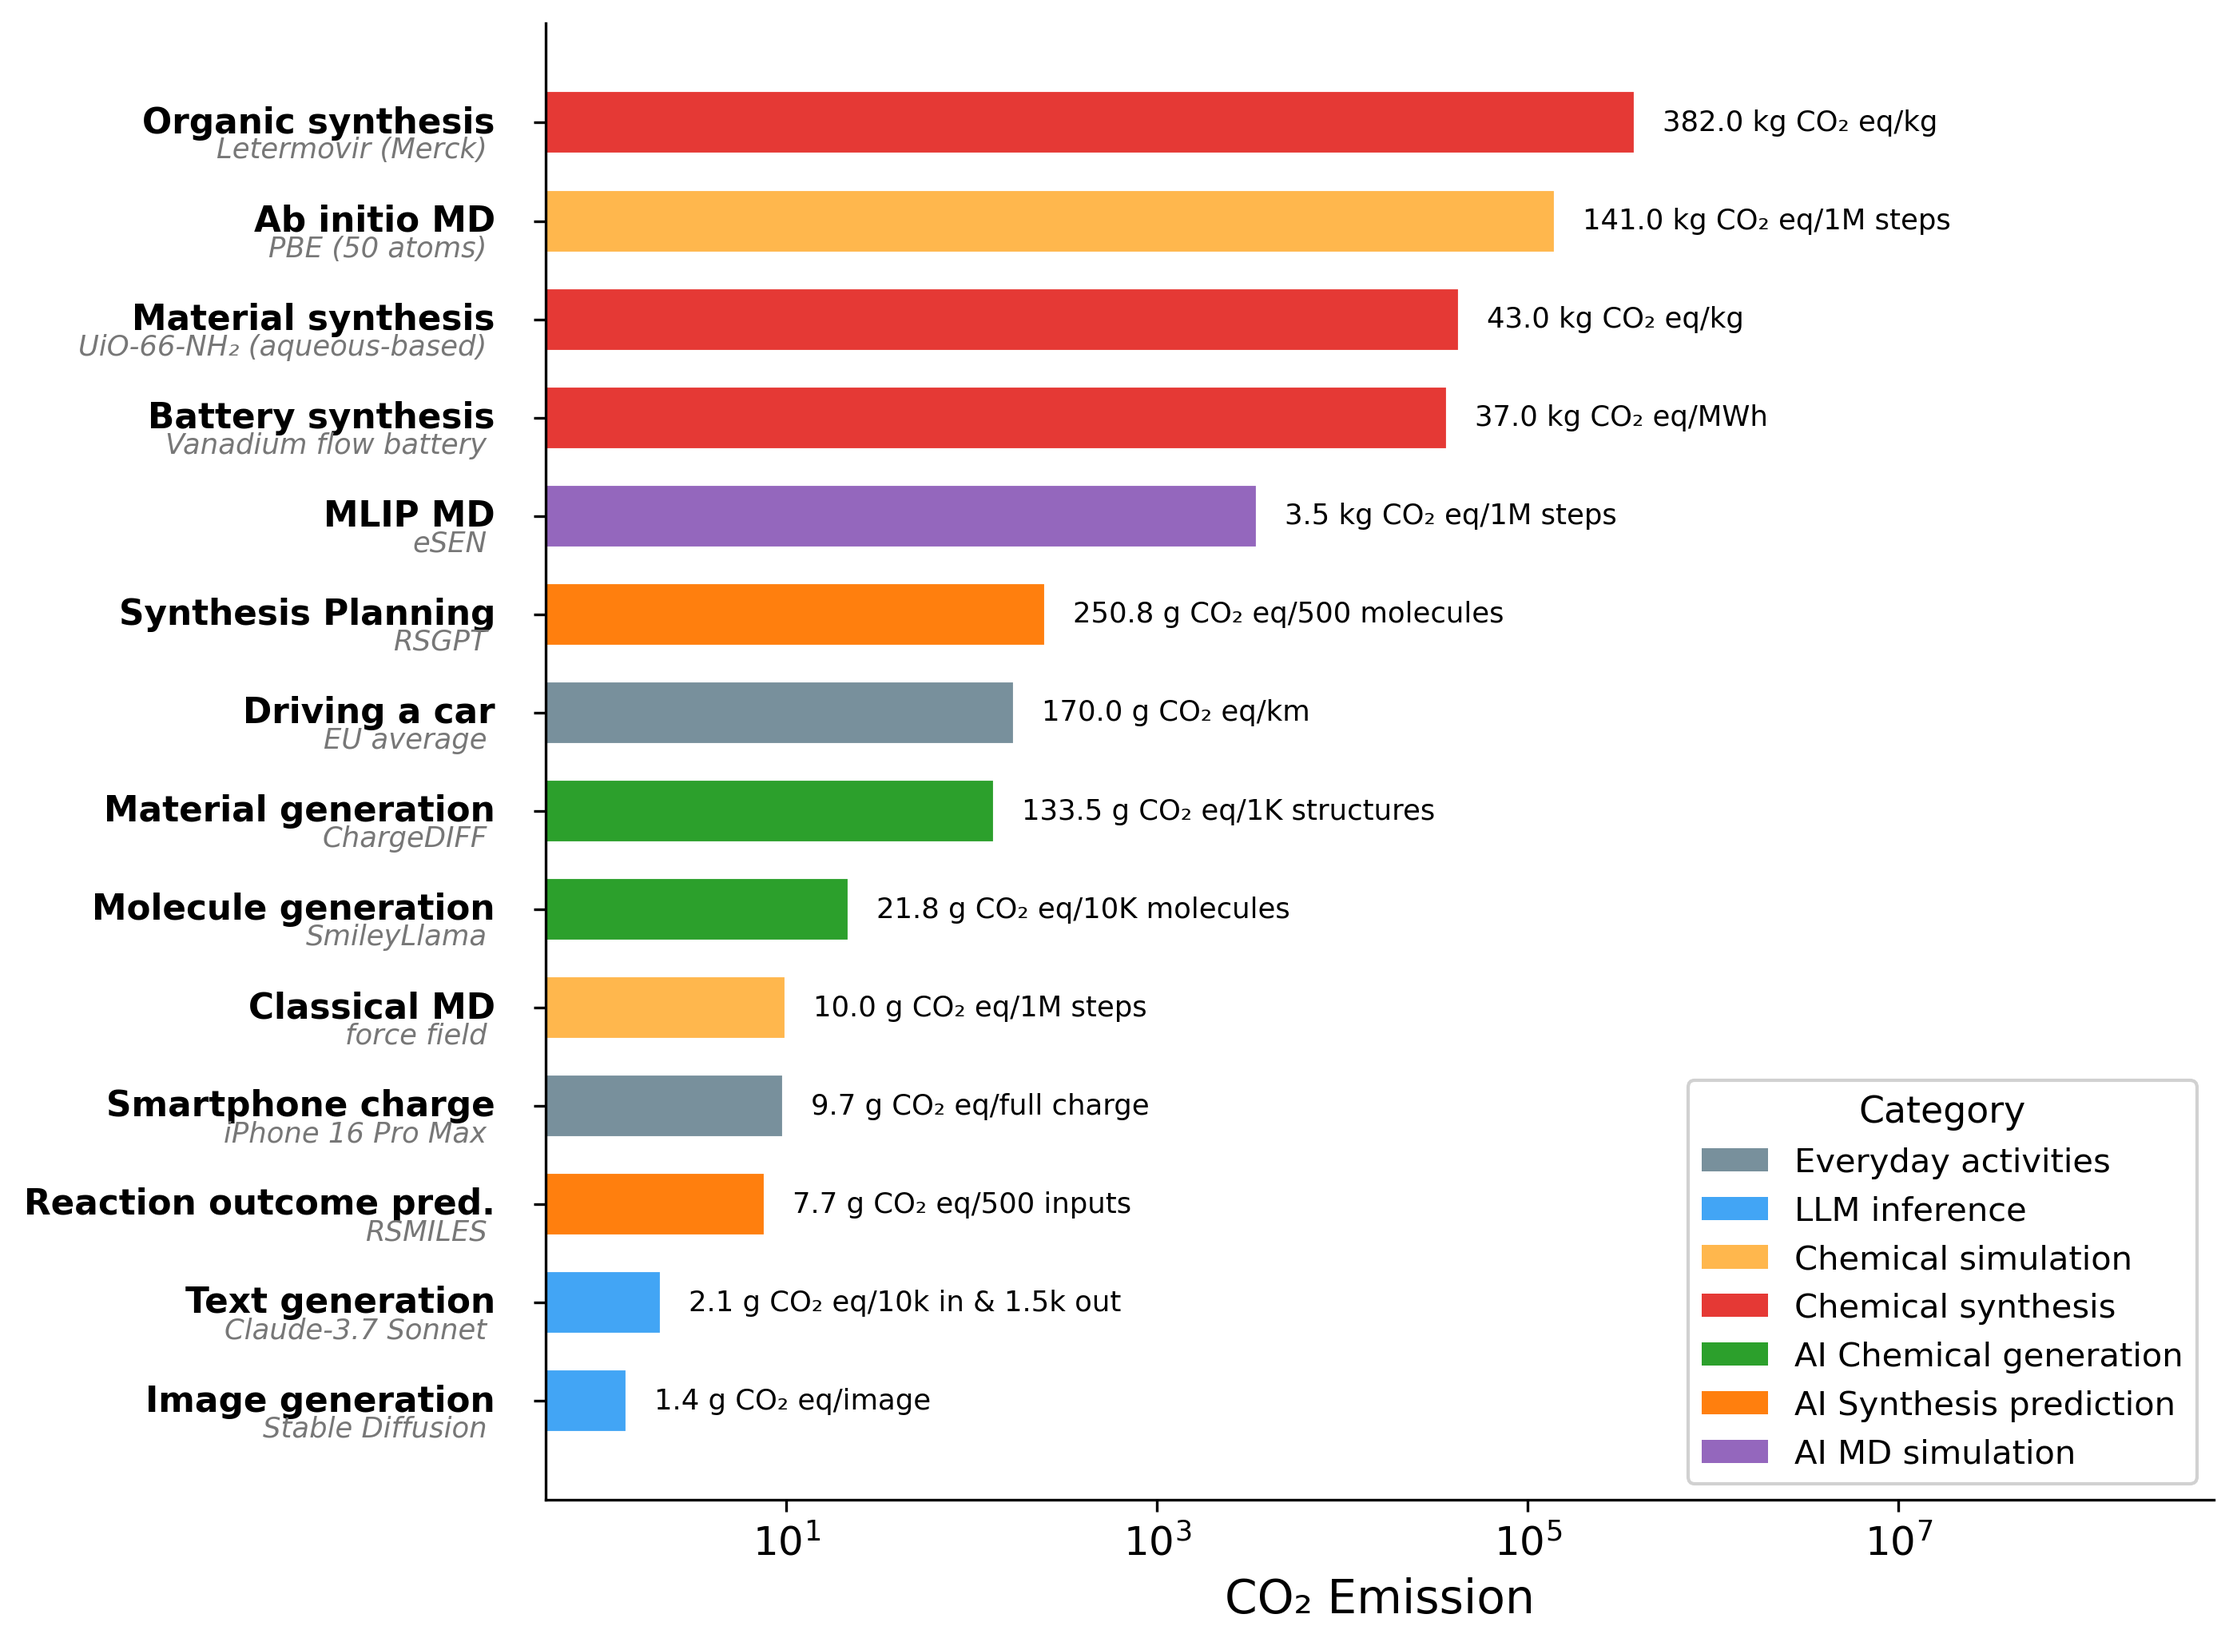
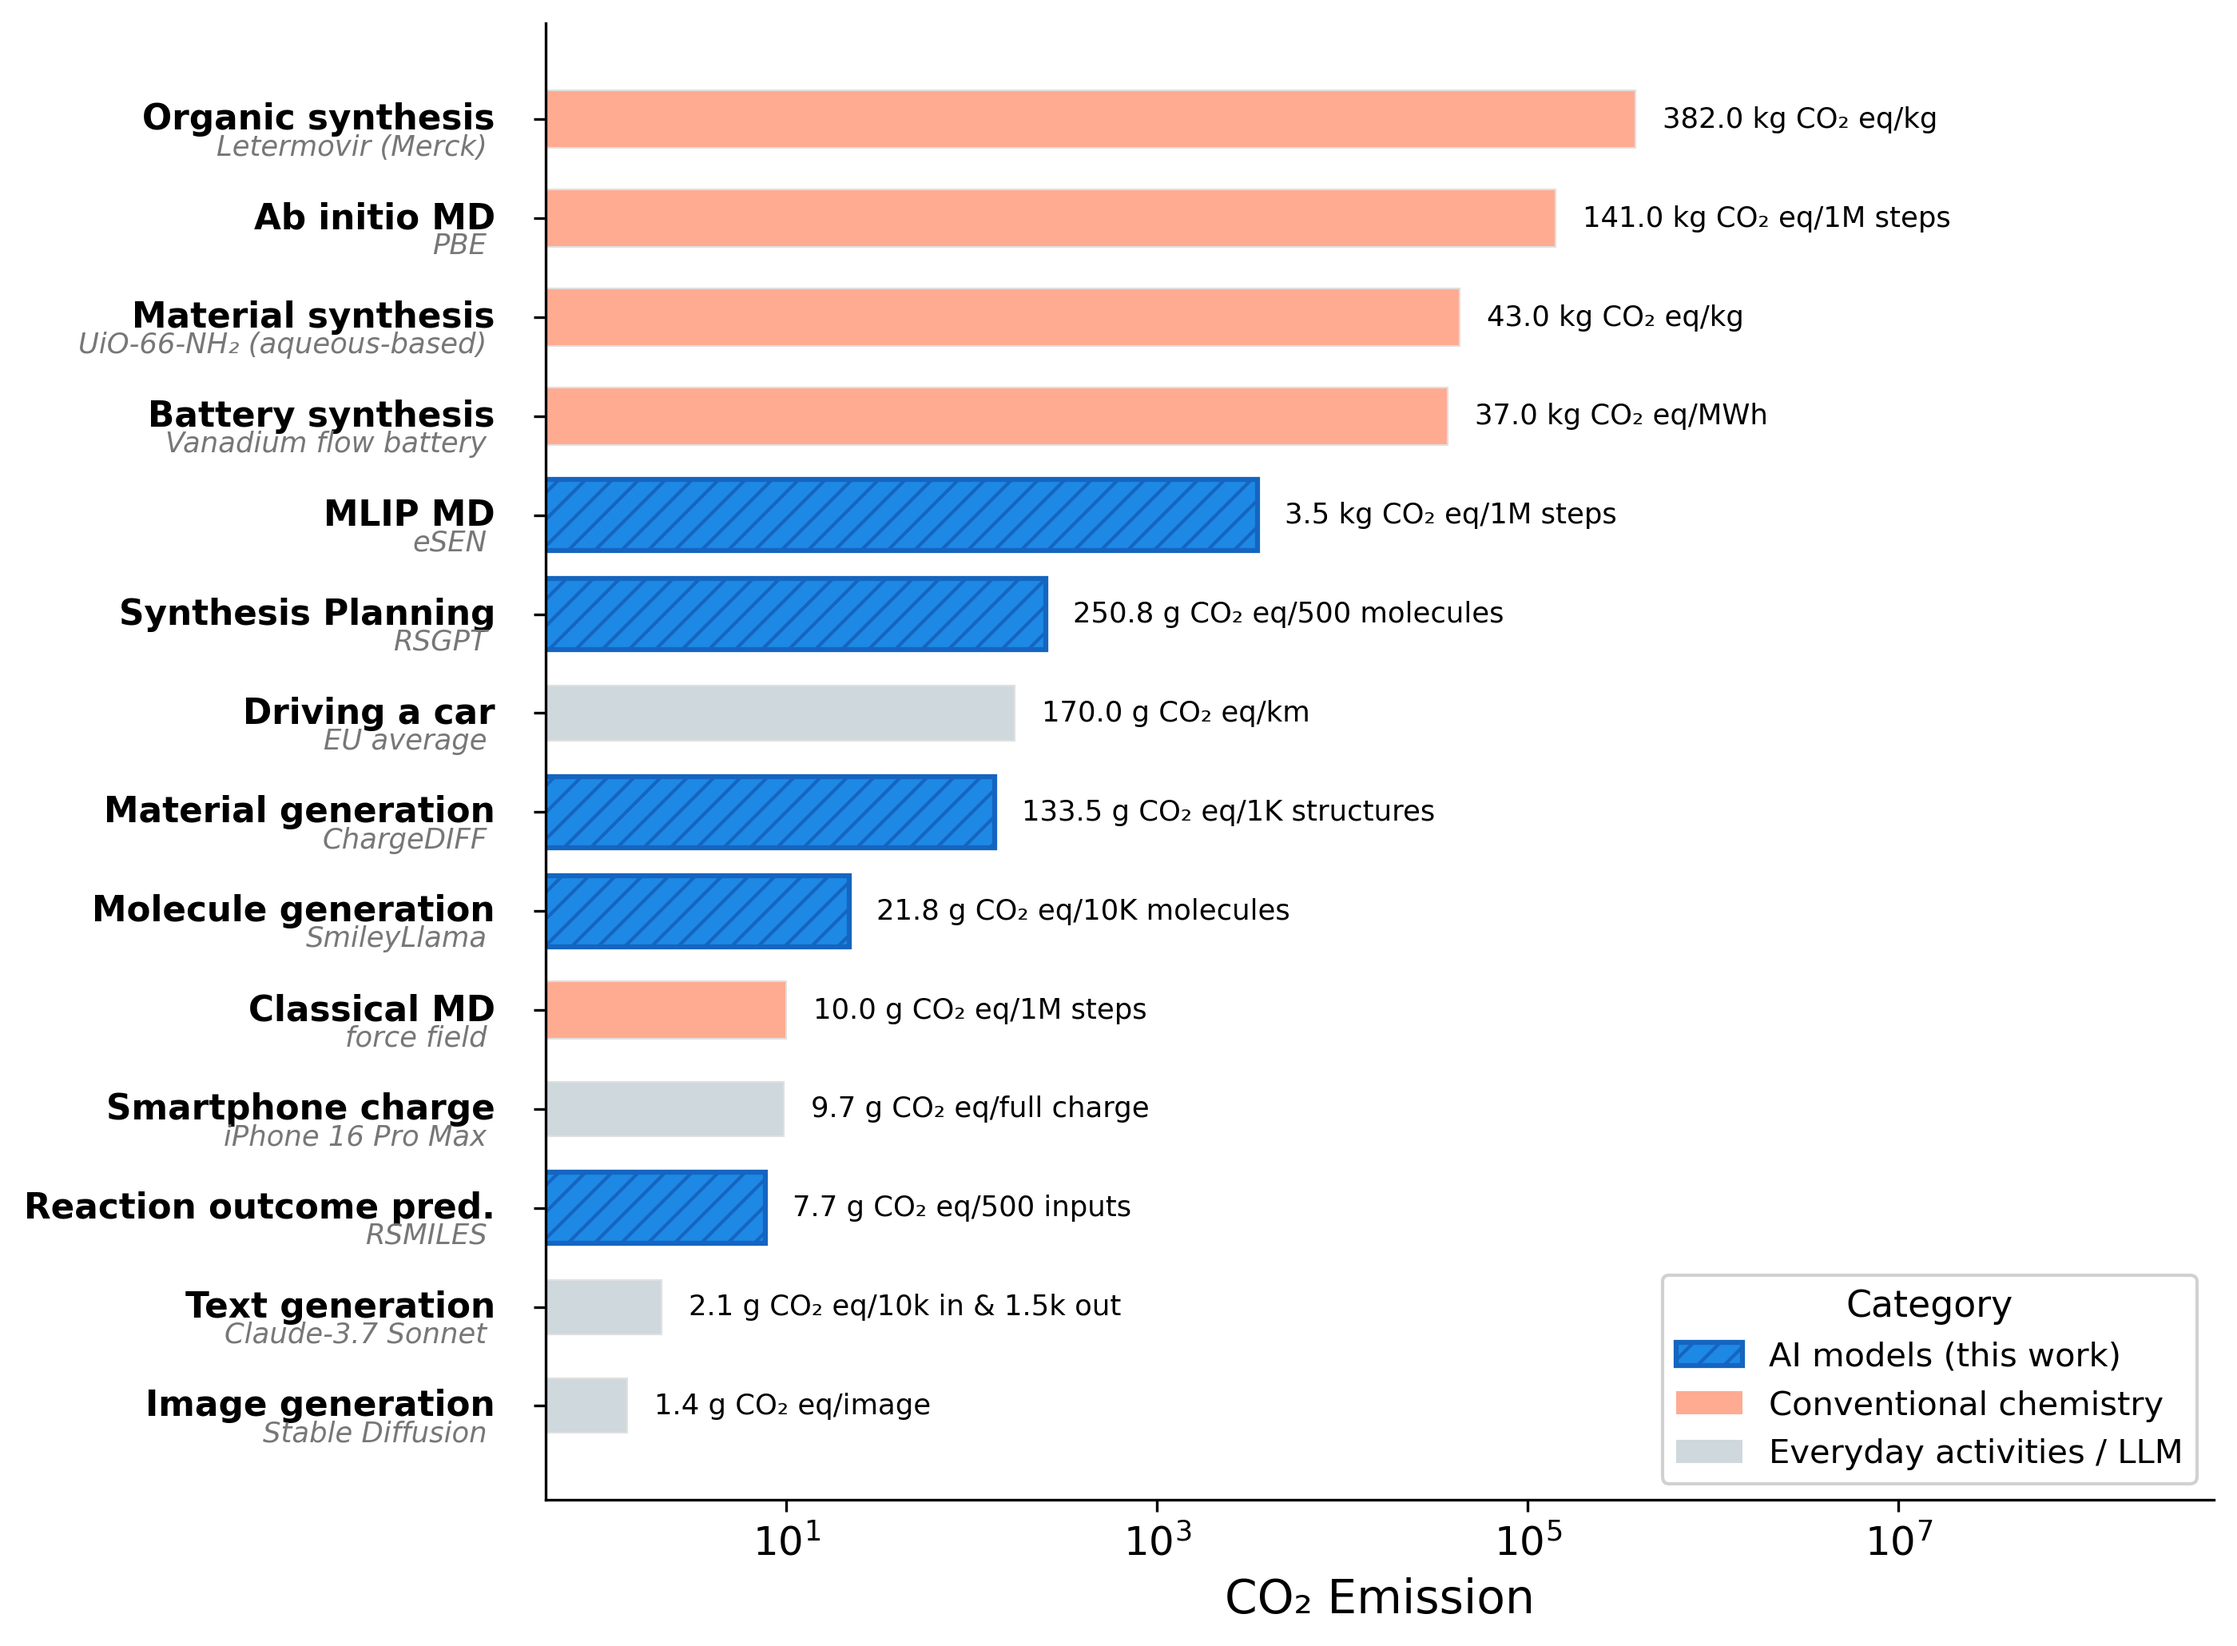
Redesign Figure 4 with 3-tone palette and AI hatching
Add --highlight-ai flag for a cleaner 2-tone+ design: bold blue with
diagonal hatching for AI models, muted coral for conventional chemistry,
light gray for everyday/LLM baselines. Apply matching style to website.
Also simplify Ab initio MD description from 'PBE (50 atoms)' to 'PBE'.

diff --git a/docs/index.html b/docs/index.html
@@ -951,19 +951,20 @@ const REF_DATA = [
   { category: 'AI MD simulation',        label: 'MLIP MD',                  desc: 'LGPS · 1M steps',               value: 3486,    unit: '1M steps',           taskKey: 'StructOpt' },
   { category: 'Chemical synthesis',      label: 'Battery synthesis',        desc: 'Vanadium flow battery',         value: 37000,   unit: 'MWh',                taskKey: null },
   { category: 'Chemical synthesis',      label: 'Material synthesis',       desc: 'UiO-66-NH₂ (aqueous-based)',    value: 43000,   unit: 'kg',                 taskKey: null },
-  { category: 'Chemical simulation',     label: 'Ab initio MD',             desc: 'PBE (50 atoms)',                value: 140960,  unit: '1M steps',           taskKey: null },
+  { category: 'Chemical simulation',     label: 'Ab initio MD',             desc: 'PBE',                value: 140960,  unit: '1M steps',           taskKey: null },
   { category: 'Chemical synthesis',      label: 'Organic synthesis',        desc: 'Letermovir (Merck)',             value: 382000,  unit: 'kg',                 taskKey: null },
 ].sort((a, b) => a.value - b.value);
 
 const REF_CAT_COLORS = {
-  'LLM inference':           '#9467bd',
-  'AI Synthesis prediction': '#17becf',
-  'AI Chemical generation':  '#2ca02c',
-  'AI MD simulation':        '#d62728',
-  'Everyday activities':     '#ff7f0e',
-  'Chemical simulation':     '#8c564b',
-  'Chemical synthesis':      '#e377c2',
+  'LLM inference':           '#CFD8DC',
+  'AI Synthesis prediction': '#1E88E5',
+  'AI Chemical generation':  '#1E88E5',
+  'AI MD simulation':        '#1E88E5',
+  'Everyday activities':     '#CFD8DC',
+  'Chemical simulation':     '#FFAB91',
+  'Chemical synthesis':      '#FFAB91',
 };
+const AI_CATEGORIES = new Set(['AI Synthesis prediction', 'AI Chemical generation', 'AI MD simulation']);
 
 /* ──────────────────────────────────────────────────────
    RENDER CHART — switches based on active tab
@@ -1031,7 +1032,18 @@ function renderRefChart() {
     orientation: 'h',
     x: sorted.map(d => d._barVal),
     y: sorted.map(d => d.label),
-    marker: { color: sorted.map(d => REF_CAT_COLORS[d.category] || '#64748b') },
+    marker: {
+      color: sorted.map(d => REF_CAT_COLORS[d.category] || '#64748b'),
+      line:  {
+        color: sorted.map(d => AI_CATEGORIES.has(d.category) ? '#1565C0' : '#E0E0E0'),
+        width: sorted.map(d => AI_CATEGORIES.has(d.category) ? 1.5 : 0.5),
+      },
+      pattern: {
+        shape:   sorted.map(d => AI_CATEGORIES.has(d.category) ? '/' : ''),
+        solidity: 0.5,
+        fgcolor: sorted.map(d => AI_CATEGORIES.has(d.category) ? '#1565C0' : ''),
+      },
+    },
     error_x: {
       type:       'data',
       symmetric:  false,
@@ -1051,20 +1063,31 @@ function renderRefChart() {
     showlegend: false,
   }];
 
-  // Category legend traces (invisible bars, for legend only)
-  const seenCats = new Set();
-  sorted.forEach(d => {
-    if (!seenCats.has(d.category)) {
-      seenCats.add(d.category);
-      traces.push({
-        type: 'bar', orientation: 'h',
-        x: [null], y: [null],
-        name: d.category,
-        marker: { color: REF_CAT_COLORS[d.category] || '#64748b' },
-        showlegend: true,
-        hoverinfo: 'skip',
-      });
-    }
+  // 3-tone legend traces
+  traces.push({
+    type: 'bar', orientation: 'h',
+    x: [null], y: [null],
+    name: 'AI models (this work)',
+    marker: {
+      color: '#1E88E5',
+      line: { color: '#1565C0', width: 1.5 },
+      pattern: { shape: '/', solidity: 0.5, fgcolor: '#1565C0' },
+    },
+    showlegend: true, hoverinfo: 'skip',
+  });
+  traces.push({
+    type: 'bar', orientation: 'h',
+    x: [null], y: [null],
+    name: 'Conventional chemistry',
+    marker: { color: '#FFAB91' },
+    showlegend: true, hoverinfo: 'skip',
+  });
+  traces.push({
+    type: 'bar', orientation: 'h',
+    x: [null], y: [null],
+    name: 'Everyday activities / LLM',
+    marker: { color: '#CFD8DC' },
+    showlegend: true, hoverinfo: 'skip',
   });
 
   const layout = {

diff --git a/analysis/plot_figures.py b/analysis/plot_figures.py
@@ -599,9 +599,17 @@ def _compute_pareto(grp):
     return pareto
 
 
-def plot_fig4(df):
+def plot_fig4(df, highlight_ai=False):
     """Horizontal bar chart of CO2 reference points, ordered by magnitude.
-    For AI task entries, the bar and description show the worst Pareto-optimal model."""
+    For AI task entries, the bar and description show the worst Pareto-optimal model.
+
+    Parameters
+    ----------
+    highlight_ai : bool
+        When True, use a 2-tone palette: bold accent for AI models,
+        neutral gray for non-AI references.  Default False keeps the
+        original 7-colour category scheme.
+    """
 
     # Compute worst Pareto model per task
     # StructOpt and MDSim share models — merge them
@@ -639,7 +647,7 @@ def plot_fig4(df):
         ('AI MD simulation',         'MLIP MD',                  'StructOpt',  'eSEN',                        3486,    '1M steps'),
         ('Chemical synthesis',       'Battery synthesis',        None,         'Vanadium flow battery',       37000,   'MWh'),
         ('Chemical synthesis',       'Material synthesis',       None,         'UiO-66-NH₂ (aqueous-based)',  43000,   'kg'),
-        ('Chemical simulation',      'Ab initio MD',             None,         'PBE (50 atoms)',              140960,  '1M steps'),
+        ('Chemical simulation',      'Ab initio MD',             None,         'PBE',              140960,  '1M steps'),
         ('Chemical synthesis',       'Organic synthesis',        None,         'Letermovir (Merck)',           382000,  'kg'),
     ]
 
@@ -659,10 +667,35 @@ def plot_fig4(df):
     descs       = [d[2] for d in ref_data]
     values      = [d[3] for d in ref_data]
     units       = [d[4] for d in ref_data]
-    colors      = [REF_CATEGORY_COLORS[c] for c in categories]
+    AI_CATEGORIES = {'AI Chemical generation', 'AI Synthesis prediction', 'AI MD simulation'}
+    CHEM_CATEGORIES = {'Chemical simulation', 'Chemical synthesis'}
+
+    if highlight_ai:
+        ai_color   = '#1E88E5'   # bold blue for AI models
+        chem_color = '#FFAB91'   # muted coral for conventional chemistry
+        base_color = '#CFD8DC'   # light gray for everyday / LLM baselines
+
+        def _pick(cat):
+            if cat in AI_CATEGORIES:
+                return ai_color, '#1565C0', 1.5, 0.72, '///'
+            if cat in CHEM_CATEGORIES:
+                return chem_color, '#E0E0E0', 0.5, 0.58, ''
+            return base_color, '#E0E0E0', 0.5, 0.55, ''
+
+        colors, edgecolors, linewidths, heights, hatches = zip(
+            *[_pick(c) for c in categories])
+    else:
+        colors = [REF_CATEGORY_COLORS[c] for c in categories]
+        edgecolors = ['white'] * len(categories)
+        linewidths = [0.5] * len(categories)
+        heights = [0.65] * len(categories)
+        hatches = [''] * len(categories)
 
     fig, ax = plt.subplots(figsize=(12, 8))
-    ax.barh(range(len(ref_data)), values, color=colors, edgecolor='white', height=0.65)
+    for i, (val, c, ec, lw, h, hp) in enumerate(
+            zip(values, colors, edgecolors, linewidths, heights, hatches)):
+        ax.barh(i, val, color=c, edgecolor=ec, linewidth=lw, height=h,
+                hatch=hp)
 
     for i, (val, unit) in enumerate(zip(values, units)):
         label = (f'{val / 1000:.1f} kg CO₂ eq/{unit}' if val >= 1000
@@ -683,8 +716,17 @@ def plot_fig4(df):
     ax.tick_params(labelsize=12)
     ax.set_xlim(0.5, 5e8)
 
-    leg = [mpatches.Patch(facecolor=REF_CATEGORY_COLORS[cat], label=cat)
-           for cat in REF_LEGEND_ORDER]
+    if highlight_ai:
+        leg = [
+            mpatches.Patch(facecolor=ai_color, edgecolor='#1565C0',
+                           linewidth=1.5, hatch='///',
+                           label='AI models (this work)'),
+            mpatches.Patch(facecolor=chem_color, label='Conventional chemistry'),
+            mpatches.Patch(facecolor=base_color, label='Everyday activities / LLM'),
+        ]
+    else:
+        leg = [mpatches.Patch(facecolor=REF_CATEGORY_COLORS[cat], label=cat)
+               for cat in REF_LEGEND_ORDER]
     ax.legend(handles=leg, loc='lower right', fontsize=10,
               framealpha=0.9, title='Category', title_fontsize=11)
     ax.spines['top'].set_visible(False)
@@ -890,6 +932,8 @@ if __name__ == '__main__':
     parser.add_argument('--dpi', type=int, default=300)
     parser.add_argument('--co2', choices=['per_exp', 'per_job'], default='per_exp',
                         help='CO2 metric: per_exp or per_job (default: per_job)')
+    parser.add_argument('--highlight-ai', action='store_true',
+                        help='Fig 4: 2-tone palette highlighting AI models vs gray references')
     args = parser.parse_args()
 
     # Set CO2 column and label based on argument
@@ -915,7 +959,7 @@ if __name__ == '__main__':
     if 3 in args.fig:
         plot_fig3(df)
     if 4 in args.fig:
-        plot_fig4(df)
+        plot_fig4(df, highlight_ai=args.highlight_ai)
     if 5 in args.fig:
         plot_fig5(df)
     if 6 in args.fig:
